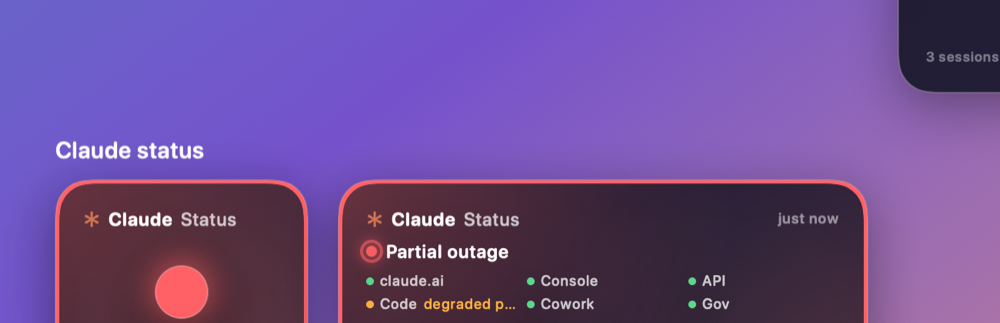
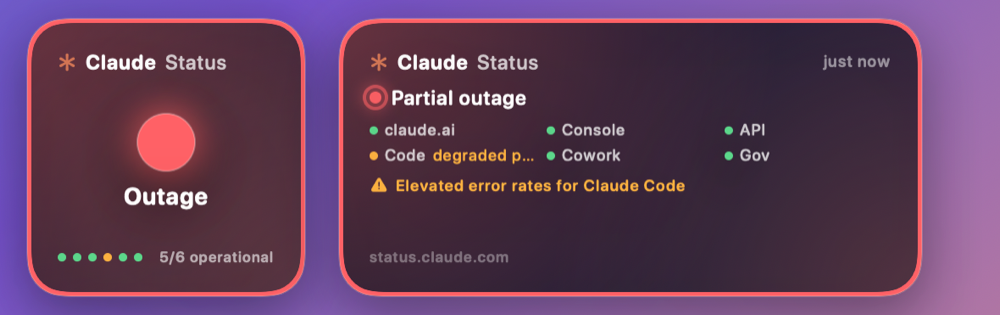
README: proper crop and caption for the incident screenshot

diff --git a/README.md b/README.md
@@ -42,9 +42,13 @@ The menu bar item shows the worst window (`✱ 45%`, plus ⚠ during a Claude
 
 **Glass Orbit** (default) — concentric rings, inner 5-hour, outer the most constraining weekly cap; both numbers inside. **Pace Bars** — capsule bars with pace markers. **Console** — monospace, `❯ claude /usage`. All three adapt to the tinted / clear widget styles of macOS 26.
 
-Bars, rings and numbers animate between timeline updates. During a Claude incident the status widget gets a halo, the menu bar lamp pulses and the menu bar item shows ⚠:
+Bars, rings and numbers animate between timeline updates.
 
-![Status widget during an incident](docs/incident.png)
+### During an incident
+
+When status.claude.com reports a problem, the status widget gets a warning halo, the affected component is called out, the menu bar lamp pulses and the menu bar item shows ⚠:
+
+<img src="docs/incident.png" width="600" alt="Status widget during an incident">
 
 ## Requirements
 
